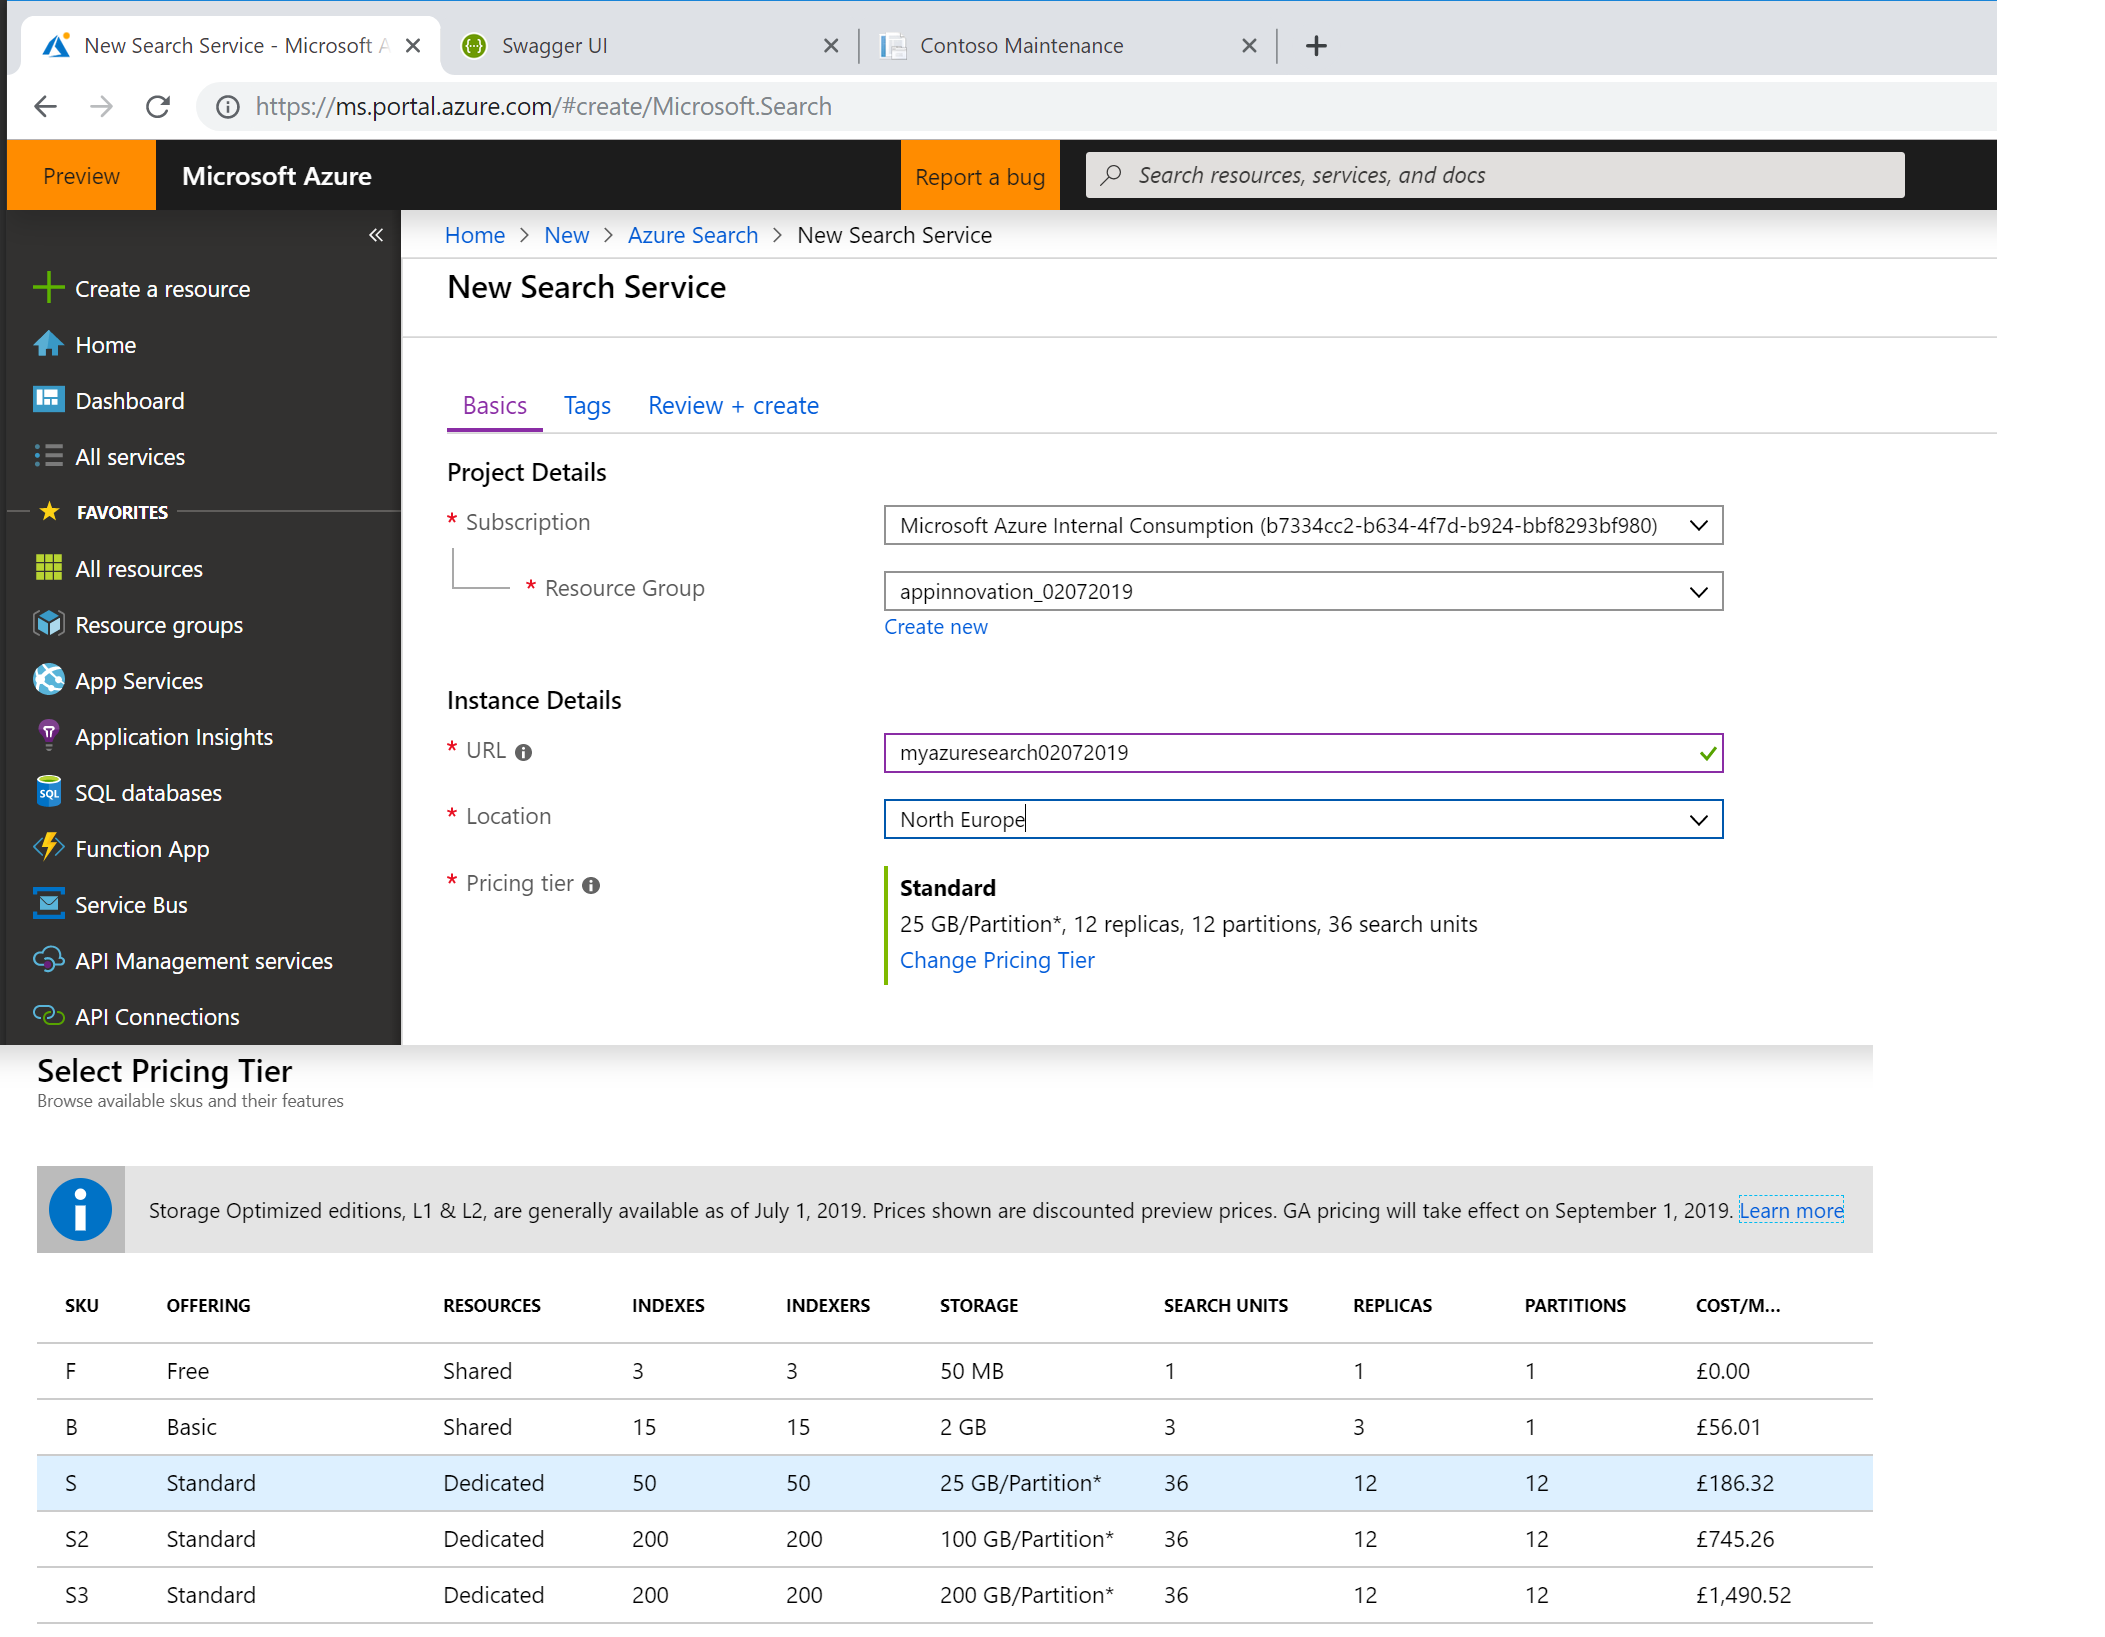
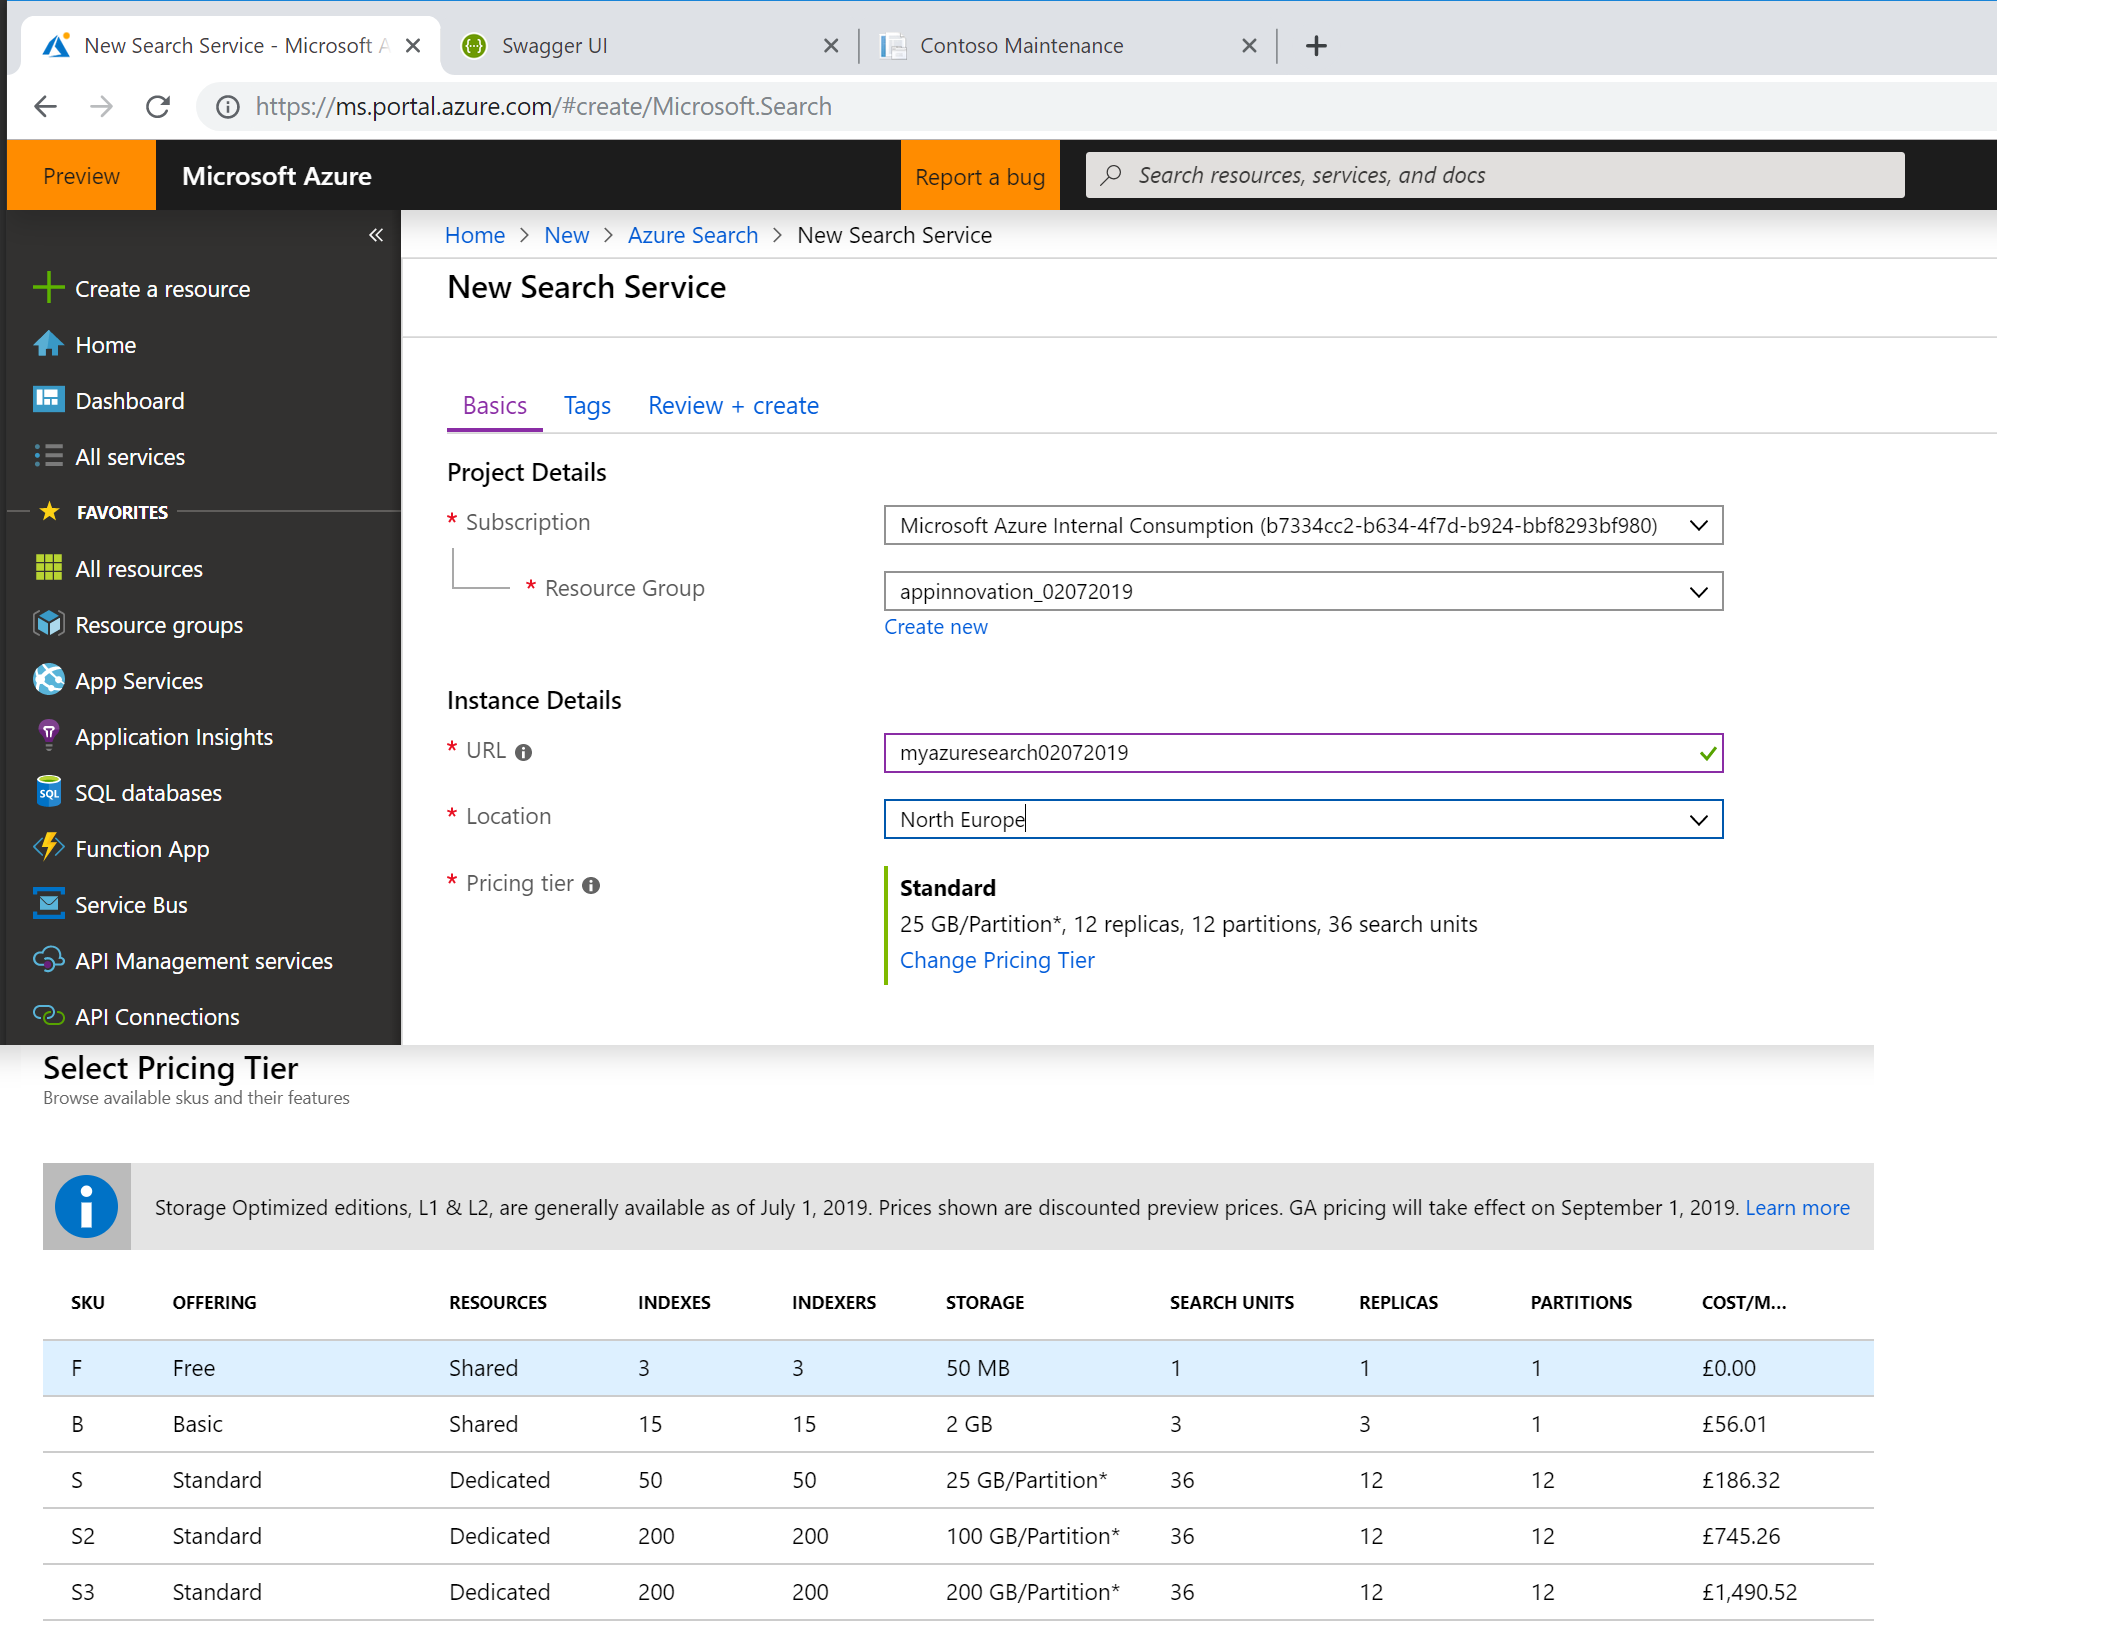
update images

Changed region(s): [[0.0, 0.7166, 0.8955, 0.9969], [0.0, 0.6231, 0.1544, 0.6854]]

diff --git a/Walkthrough Guide/06 Azure Search/README.md b/Walkthrough Guide/06 Azure Search/README.md
@@ -6,16 +6,19 @@ Many applications use search as the primary interaction pattern for their custom
 We're going to add Azure Search to our project for searching the jobs. Right now we're using it in the most basic possible way, but we'll be expanding this later as the app grows in complexity. 
 
 ## Deploying Azure Search 
-
-![Search for Azure Search](Assets/SearchForSearch.png)
 Click the "Create a Resource" in the top-left menu bar. You'll then be able to search for 'Azure Search'. 
 
-![Azure Search Results](Assets/SearchResults.png)
+![Search for Azure Search](Assets/SearchForSearch.png)
+
 Select Azure Search and click 'Create'. 
 
+![Azure Search Results](Assets/SearchResults.png)
+
+You'll have a few options for pricing, but for this demo, we should have plenty of capacity left over if we use the ***Free tier***. Hit the ***Review + Create*** button.  Once you've deployed Azure Search, go to the resource 
 
 ![Azure Search Configure](Assets/ConfigureSearchService.png)
-You'll have a few options for pricing, but for this demo, we should have plenty of capacity left over if we use the ***Free tier***. Hit the ***Review + Create*** button.  Once you've deployed Azure Search, go to the resource 
+
+Once done you get to the Overview page.  
 
 ![Azure Search Overview](Assets/SearchOverview.png)
 
